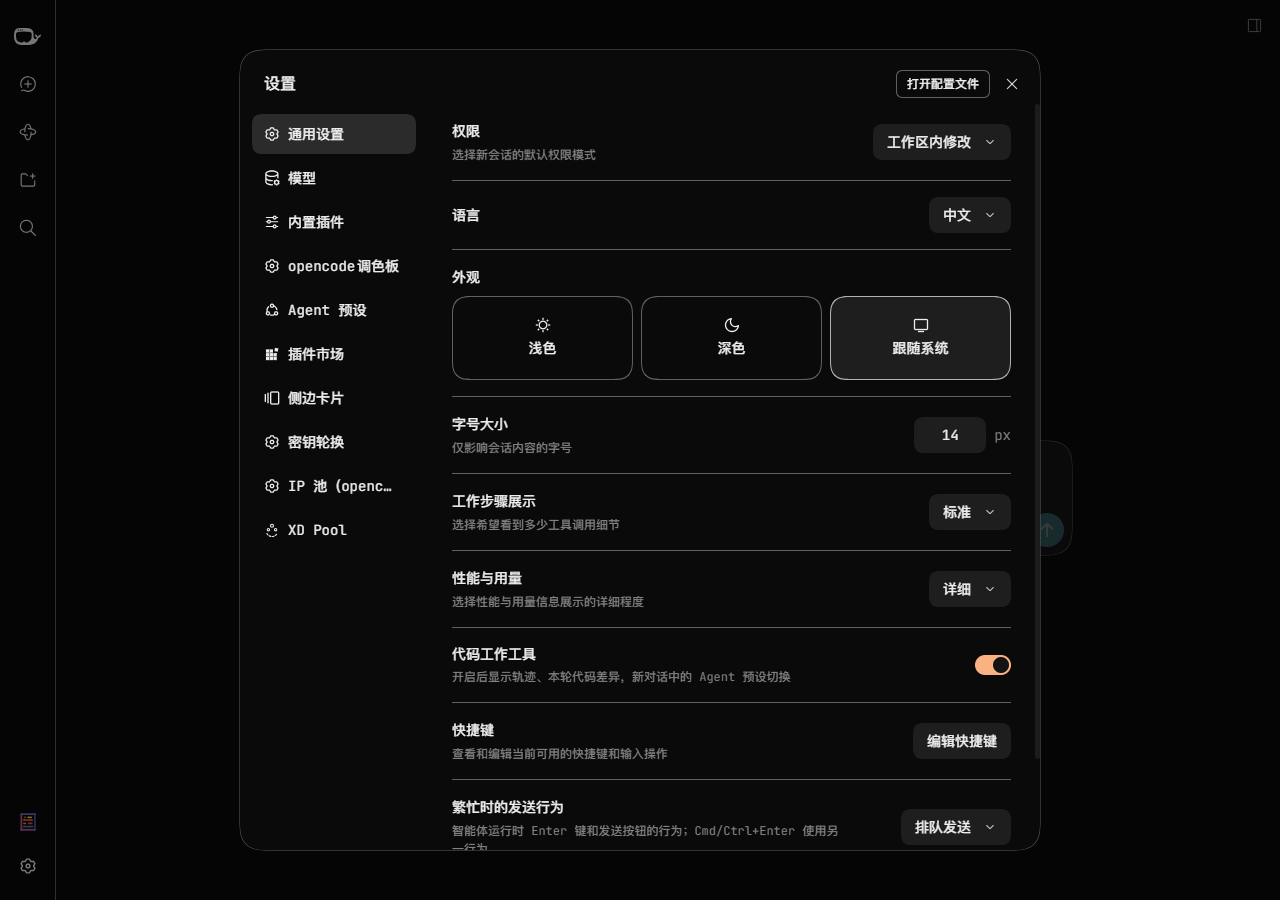
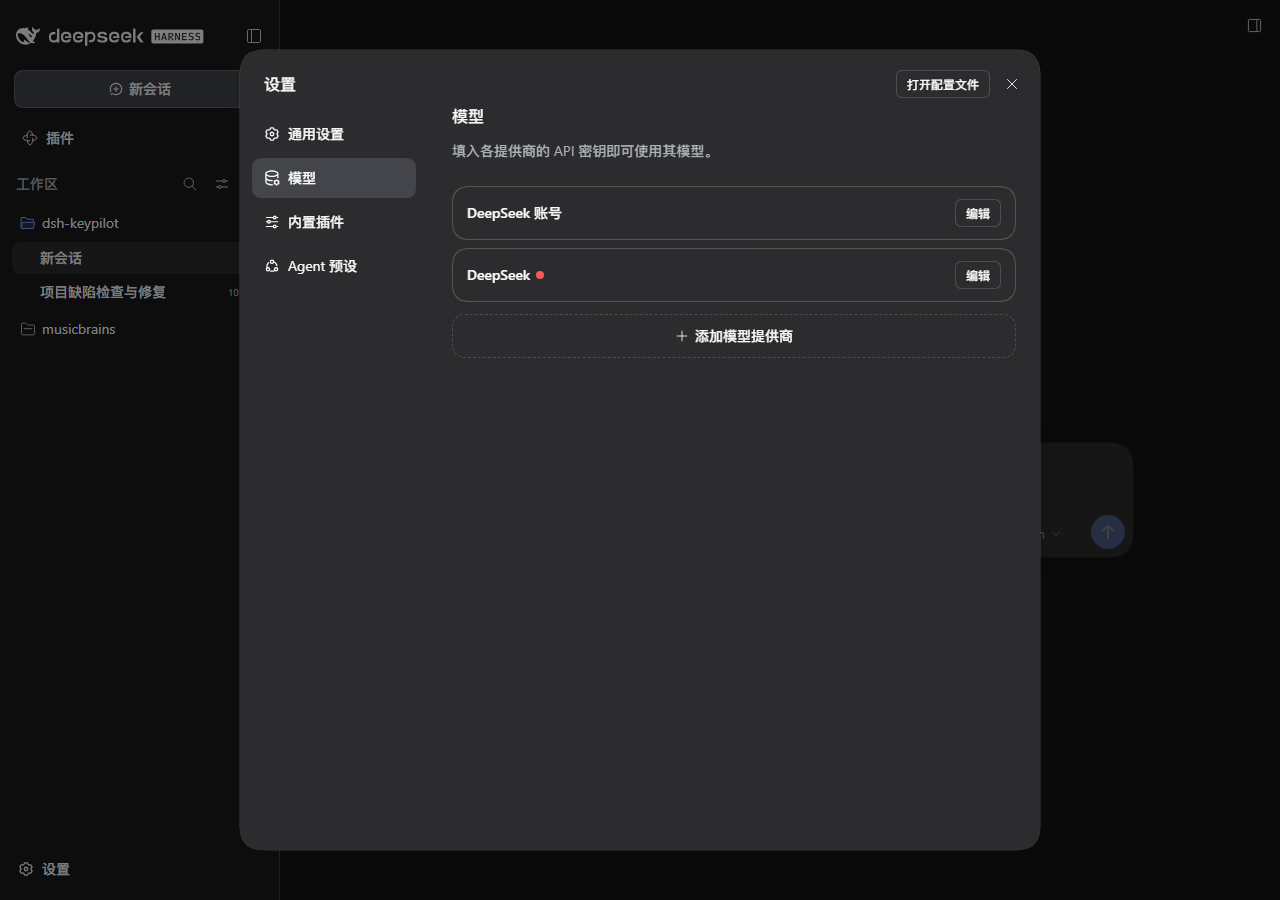
docs: 换掉配错的宿主设置截图，并补上 CI
`docs/host-credentials.png` 之前配的是「通用设置」页（权限/语言/外观/字号），
而它的说明文字写的是「设置 → 模型 页是填密钥的地方」—— 图和文说的不是一件事。

新图是在一个独立的 DSH web 实例里真拍出来的：起 `dsh --profile web --port 34573
--no-open`、拿到它打印的带 token 的 URL、用仓库自带的 tools/lib/cdp.mjs 驱动无头
Chrome，点「设置 → 模型」。图上能看到「填入各提供商的 API 密钥即可使用其模型」、
DeepSeek 账号与 DeepSeek 两项，以及「添加模型提供商」。顺带核实了说明文字里那两条
断言：添加提供商的面板确实**每提供商只有一个 API 密钥输入框**（`input[type=password]`，
占位符「输入 API 密钥，或留空使用环境认证」），所以轮换用的第二、三把密钥确实只能
另想办法命名——这正是「② 直接填密钥」存在的理由。

顺手补上 .github/workflows/ci.yml：跑 Node 22（engines 的下限）与
`node test/run.mjs` + `node tools/verify.mjs`，**没有 install 步骤**，因为这两条命令
既不加载宿主模块也不依赖第三方包。已把 node_modules 整个挪开复跑确认过：387 用例
379 通过 0 失败、自检 74 项全过——没有 node_modules 也一样。这也让 .gitattributes
里那句「Linux CI」不再是空话，README 顶部加了状态徽章。

diff --git a/README.zh.md b/README.zh.md
@@ -1,5 +1,7 @@
 # dsh-keypilot
 
+[![CI](https://github.com/sucooer/dsh-keypilot/actions/workflows/ci.yml/badge.svg)](https://github.com/sucooer/dsh-keypilot/actions/workflows/ci.yml)
+
 > 适用于 DeepSeek Harness 的企业级**无感 API 密钥轮换、预判限流与跨提供商故障转移**引擎。
 
 多把密钥自动轮换、在 429 之前就跳过已经饱和的密钥、密钥全挂时级联到备用提供商，
@@ -328,6 +330,15 @@ puppeteer/playwright）。
 声明路由的模型列表被当成对象处理（设置里存的是纯 ID 字符串），于是每条模型的 `id`/`name`
 都是 `undefined`，整条路由的模型目录一起加载失败；流内 `finish.error` 那条切换分支漏记了
 另外两条分支都记的字段，于是正在冷却的密钥显示成「原因不明」——而 429 走的恰恰是这条分支。
+
+---
+
+## 持续集成
+
+[`.github/workflows/ci.yml`](.github/workflows/ci.yml) 跑在 Node 22 上——`engines` 里声明的
+下限——并且**刻意没有 install 步骤**：上面那两条命令既不加载宿主模块也不依赖任何第三方包，
+所以 CI 跑的就是新克隆下来能跑的那份代码，中间没有任何环节可以掩盖「少了某个依赖」。
+将来若有人让其中一条需要 `node_modules`，CI 会直接失败，这正是想要的结果。
 
 ---
 

diff --git a/README.md b/README.md
@@ -1,5 +1,7 @@
 # dsh-keypilot
 
+[![CI](https://github.com/sucooer/dsh-keypilot/actions/workflows/ci.yml/badge.svg)](https://github.com/sucooer/dsh-keypilot/actions/workflows/ci.yml)
+
 > Enterprise-grade **transparent API key rotation, predictive rate-limit guard and
 > cross-provider failover** for DeepSeek Harness.
 
@@ -325,6 +327,16 @@ model list being treated as objects when settings hold plain id strings, which m
 model's `id`/`name` `undefined` and killed the whole route's catalog; and the in-stream
 `finish.error` switch path skipping the two accounting fields the other switch paths set,
 which left a cooling key showing as "reason unknown" — on the path a 429 most often takes.
+
+---
+
+## Continuous integration
+
+[`.github/workflows/ci.yml`](.github/workflows/ci.yml) runs on Node 22 — the floor declared
+in `engines` — and has **no install step**, on purpose: the two commands above load no host
+modules and no third-party packages, so CI runs exactly the code a fresh clone runs, with
+nothing in between to paper over a missing dependency. If a future change makes either of
+them need `node_modules`, CI breaks, which is the correct outcome.
 
 ---
 
